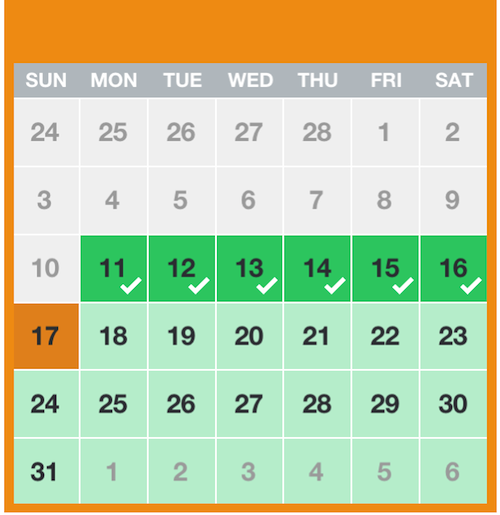
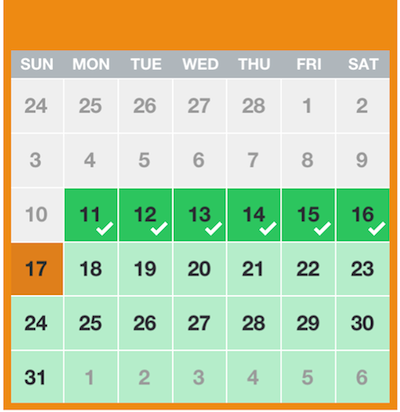
better push image

diff --git a/index.html b/index.html
@@ -364,7 +364,7 @@ body {
   <hr class="featurette-divider">
 
   <div class="featurette">
-    <img class="featurette-image pull-right" src="../assets/img/index/push.jpg">
+    <img class="featurette-image pull-right" src="../assets/img/index/push.png">
     <h2 class="featurette-heading">Find someone to push you.<span class="muted"></span></h2>
     <p class="lead">Connect with a coach or a small group of friends to help you finish your challenge.<br />
       Answer questions is also another way to learn. Remember to encourage your peers to achieve their challenge.</p>
